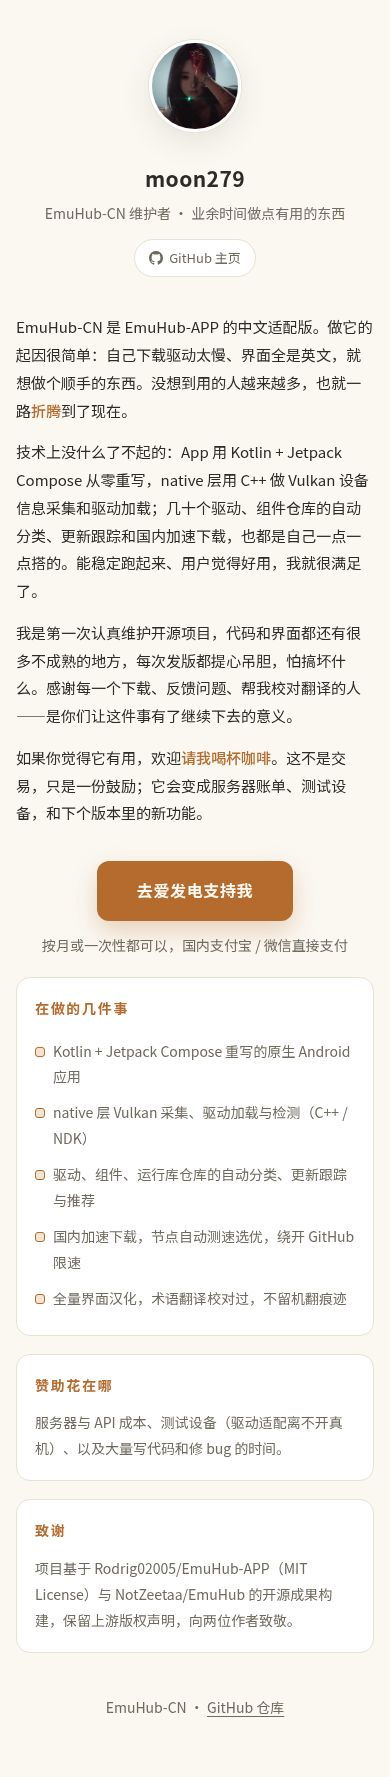
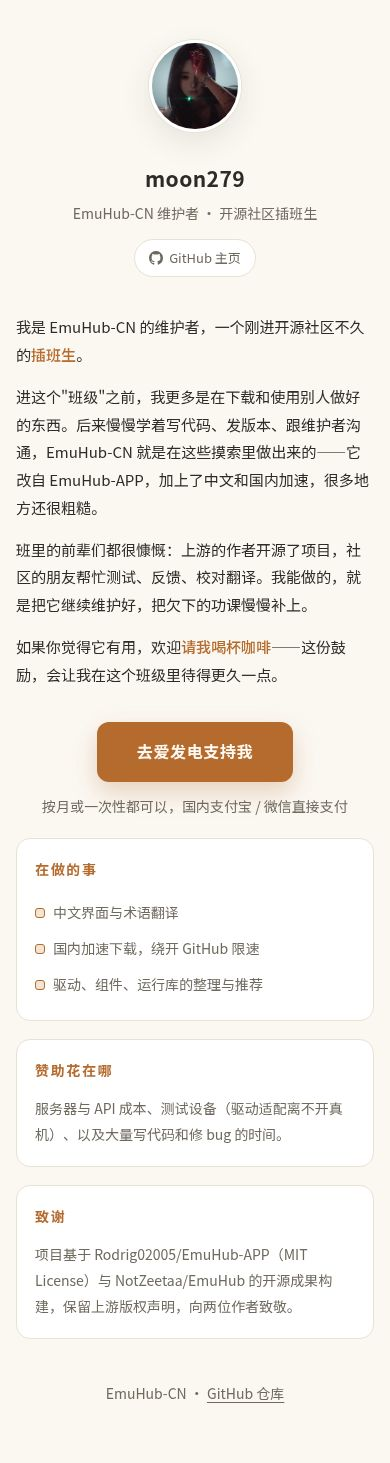
style: 赞助页自述改为插班生口吻，去掉技术炫耀
- 独白重写：承认进开源社区前只是使用者，现在还在学习
- 去掉 Kotlin/Compose/C++/几十个仓库等夸大表述
- 在做的几件事改回平实清单
- 标签改为「开源社区插班生」

diff --git a/docs/sponsor.html b/docs/sponsor.html
@@ -112,7 +112,7 @@
   <div class="profile">
     <img class="avatar" src="assets/avatar.png" alt="moon279 头像">
     <div class="name">moon279</div>
-    <div class="tagline">EmuHub-CN 维护者 · 业余时间做点有用的东西</div>
+    <div class="tagline">EmuHub-CN 维护者 · 开源社区插班生</div>
     <a class="home-link" href="https://github.com/mihsian77" target="_blank" rel="noopener">
       <svg viewBox="0 0 16 16" fill="currentColor" aria-hidden="true"><path d="M8 0C3.58 0 0 3.58 0 8c0 3.54 2.29 6.53 5.47 7.59.4.07.55-.17.55-.38 0-.19-.01-.82-.01-1.49-2.01.37-2.53-.49-2.69-.94-.09-.23-.48-.94-.82-1.13-.28-.15-.68-.52-.01-.53.63-.01 1.08.58 1.23.82.72 1.21 1.87.87 2.33.66.07-.52.28-.87.51-1.07-1.78-.2-3.64-.89-3.64-3.95 0-.87.31-1.59.82-2.15-.08-.2-.36-1.02.08-2.12 0 0 .67-.21 2.2.82.64-.18 1.32-.27 2-.27s1.36.09 2 .27c1.53-1.04 2.2-.82 2.2-.82.44 1.1.16 1.92.08 2.12.51.56.82 1.27.82 2.15 0 3.07-1.87 3.75-3.65 3.95.29.25.54.73.54 1.48 0 1.07-.01 1.93-.01 2.2 0 .21.15.46.55.38A8.01 8.01 0 0 0 16 8c0-4.42-3.58-8-8-8z"/></svg>
       GitHub 主页
@@ -120,10 +120,10 @@
   </div>
 
   <div class="monologue">
-    <p>EmuHub-CN 是 EmuHub-APP 的中文适配版。做它的起因很简单：自己下载驱动太慢、界面全是英文，就想做个顺手的东西。没想到用的人越来越多，也就一路<em>折腾</em>到了现在。</p>
-    <p>技术上没什么了不起的：App 用 Kotlin + Jetpack Compose 从零重写，native 层用 C++ 做 Vulkan 设备信息采集和驱动加载；几十个驱动、组件仓库的自动分类、更新跟踪和国内加速下载，也都是自己一点一点搭的。能稳定跑起来、用户觉得好用，我就很满足了。</p>
-    <p>我是第一次认真维护开源项目，代码和界面都还有很多不成熟的地方，每次发版都提心吊胆，怕搞坏什么。感谢每一个下载、反馈问题、帮我校对翻译的人——是你们让这件事有了继续下去的意义。</p>
-    <p>如果你觉得它有用，欢迎<em>请我喝杯咖啡</em>。这不是交易，只是一份鼓励；它会变成服务器账单、测试设备，和下个版本里的新功能。</p>
+    <p>我是 EmuHub-CN 的维护者，一个刚进开源社区不久的<em>插班生</em>。</p>
+    <p>进这个"班级"之前，我更多是在下载和使用别人做好的东西。后来慢慢学着写代码、发版本、跟维护者沟通，EmuHub-CN 就是在这些摸索里做出来的——它改自 EmuHub-APP，加上了中文和国内加速，很多地方还很粗糙。</p>
+    <p>班里的前辈们都很慷慨：上游的作者开源了项目，社区的朋友帮忙测试、反馈、校对翻译。我能做的，就是把它继续维护好，把欠下的功课慢慢补上。</p>
+    <p>如果你觉得它有用，欢迎<em>请我喝杯咖啡</em>——这份鼓励，会让我在这个班级里待得更久一点。</p>
   </div>
 
   <div class="cta">
@@ -132,13 +132,11 @@
   </div>
 
   <div class="card">
-    <h2>在做的几件事</h2>
+    <h2>在做的事</h2>
     <ul>
-      <li>Kotlin + Jetpack Compose 重写的原生 Android 应用</li>
-      <li>native 层 Vulkan 采集、驱动加载与检测（C++ / NDK）</li>
-      <li>驱动、组件、运行库仓库的自动分类、更新跟踪与推荐</li>
-      <li>国内加速下载，节点自动测速选优，绕开 GitHub 限速</li>
-      <li>全量界面汉化，术语翻译校对过，不留机翻痕迹</li>
+      <li>中文界面与术语翻译</li>
+      <li>国内加速下载，绕开 GitHub 限速</li>
+      <li>驱动、组件、运行库的整理与推荐</li>
     </ul>
   </div>
 
